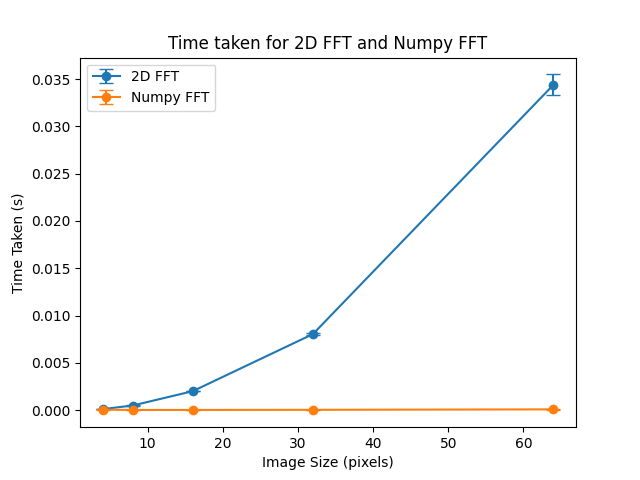
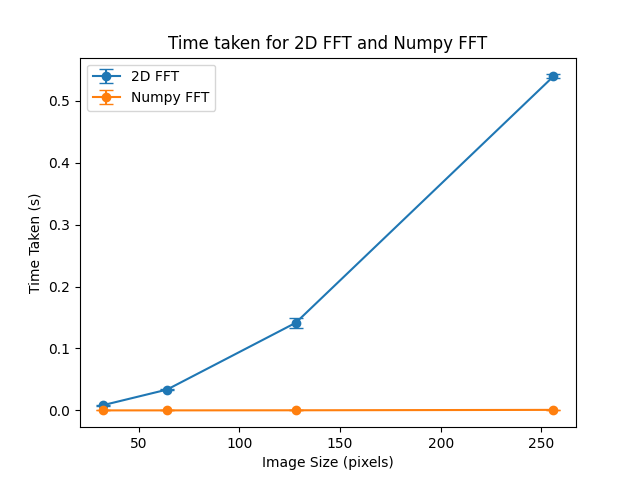
Fix naive 2D DFT

diff --git a/fft.py b/fft.py
@@ -114,22 +114,22 @@ def mode_4():
     Compare the 2D DFT and 2D FFT
     Print the time taken for each function to run for each image size
     """
-    sizes: list[int] = [2 ** x for x in range(5, 10)]
+    sizes: list[int] = [2 ** x for x in range(5, 9)]
     ft_function: list[tuple] = [
         (df.DFT_2D_naive, "2D DFT Naive"),
         (df.FFT_2D, "2D FFT"),
         (np.fft.fft2, "Numpy FFT"),
     ]
-    runs_per_function = 5
+    runs_per_function = 10
 
     data: dict[str, dict[int, list[float]]] = {}
     for (_, function_name) in ft_function:
         data[function_name] = {}
 
     for i, size in enumerate(sizes):
-        # print(f"Image size: {size}x{size}")
+        print(f"Image size: {size}x{size}")
         for j, (function, function_name) in enumerate(ft_function):
-            # print(f"Running {function_name}")
+            print(f"Running {function_name}")
 
             time_taken = []
             for k in range(runs_per_function):
@@ -138,11 +138,11 @@ def mode_4():
                 end = time.time()
 
                 time_taken.append(end - start)
-                # print(f"Run {k}: Time taken: {end - start:.8f}")
+                print(f"Run {k}: Time taken: {end - start:.8f}")
 
             data[function_name][size] = time_taken
-            # print(f"Average time taken: {np.mean(time_taken):.8f}")
-        # print()
+            print(f"Average time taken: {np.mean(time_taken):.8f}")
+        print()
 
     plot_data(data, sizes)
 
@@ -207,6 +207,22 @@ def plot_data(data: dict, keys: list[int]):
     plt.title("Time taken for 2D FFT and Numpy FFT")
     plt.legend()
     plt.savefig("results/fft-vs-numpy.png")
+    plt.show()
+
+    # Point plot with error bars for standard deviation with 2D Naive DFT and 2D FFT
+    for function_name, function_data in means.items():
+        if function_name == "Numpy FFT":
+            continue
+
+        y = [function_data[key] for key in keys]
+        y_error = [std_devs[function_name][key] for key in keys]
+        plt.errorbar(keys, y, yerr=y_error, label=function_name, marker='o', capsize=5, capthick=1)
+
+    plt.xlabel("Image Size (pixels)")
+    plt.ylabel("Time Taken (s)")
+    plt.title("Time taken for 2D Naive DFT and 2D FFT")
+    plt.legend()
+    plt.savefig("results/naive-vs-fft.png")
     plt.show()
 
 

diff --git a/DiscreteFourier.py b/DiscreteFourier.py
@@ -98,12 +98,15 @@ def DFT_2D_naive(matrix: np.ndarray) -> np.ndarray:
     """
 
     N, M = matrix.shape
+    output = np.zeros(matrix.shape, dtype=np.complex_)
 
-    # Vectorized implementation of the 2D DFT (slightly faster than the single 4 nested loops implementation)
-    k, l, n, m = np.meshgrid(np.arange(N), np.arange(M), np.arange(N), np.arange(M), indexing='ij')
-    fourier = np.sum(matrix * np.exp((-2j * np.pi * (k * n / N + l * m / M))), axis=(2, 3))
+    for col in range(M):
+        output[:, col] = DFT_1D_naive(matrix[:, col])
 
-    return fourier
+    for row in range(N):
+        output[row, :] = DFT_1D_naive(output[row, :])
+
+    return output
 
 
 def FFT_2D(matrix: np.ndarray, threshold=4) -> np.ndarray:
@@ -183,13 +186,13 @@ def remove_padding(original_signal: np.ndarray, padded_signal: np.ndarray) -> np
     """
     return padded_signal[:original_signal.shape[0], :original_signal.shape[1]]
 
+
 def denoise(signal: np.ndarray, threshold=0.1, filter=0) -> np.ndarray:
     """
     Denoise a signal by removing the values below a certain threshold
-    :param filter:
-    :param filterfunc:
     :param signal:
     :param threshold: threshold for the values to keep
+    :param filter:
     :return: denoised signal
     """
 

diff --git a/testing.py b/testing.py
@@ -210,6 +210,7 @@ def test_high_freq_filter():
 
     plt.show()
 
+
 def denoise_filters_testing(matrix: np.ndarray, fft_mode=False):
     padding = df.pad_signal(matrix)
     fft = df.FFT_2D(padding)
@@ -275,9 +276,6 @@ def plot_dft(matrix: np.ndarray):
 
 
 if __name__ == '__main__':
-
-    #denoise_filters_testing(mpimg.imread("moonlanding.png"), fft_mode=True)
-    plot_dft(mpimg.imread("moonlanding.png"))
 
     parser = argparse.ArgumentParser(description='Test the DFT functions')
     parser.add_argument('--all', action='store_true', help='Run the tests')
